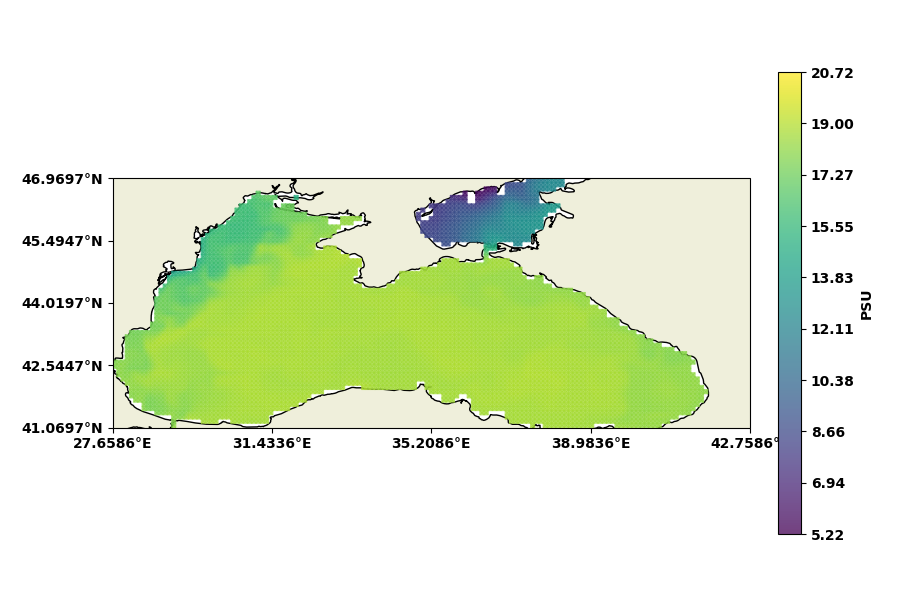
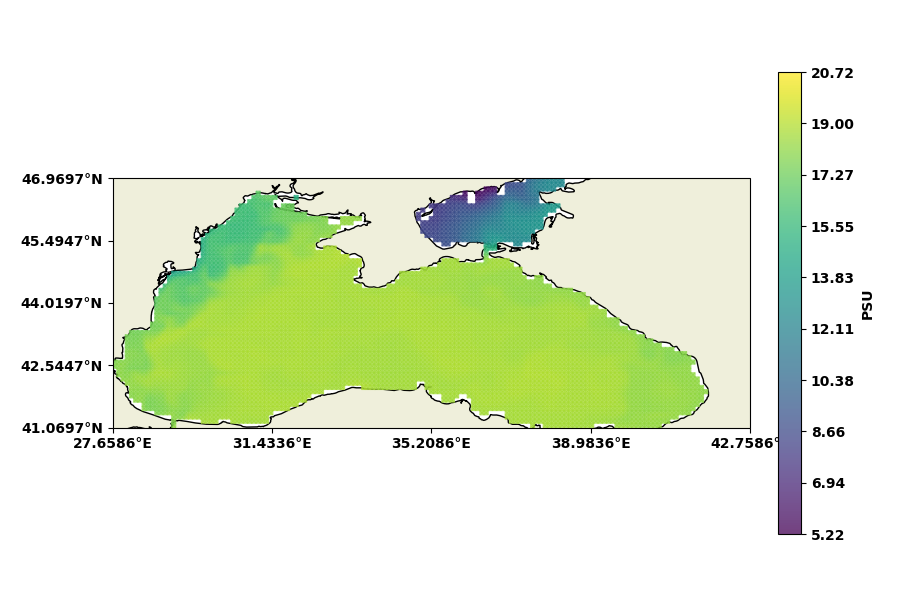
log scale bathymetric map. loop for salinity maps at depths

diff --git a/black_sea/main.py b/black_sea/main.py
@@ -25,37 +25,64 @@ headers = {'API-Key': key}
 variable = "so"
 dt = datetime(2024, 8, 21)
 
-# Firstly salinity map at shallow depth
-depth = 0 # m 
+def plot_salinity_at_depth(depth):
 
-# construct param list for the API calls 
-# read API docs for valid ones https://www.amentum.io/ocean_docs#tag/nemo/operation/app.api_nemo.endpoints.NEMO_Phys.point
+    # construct param list for the API calls 
+    # read API docs for valid ones https://www.amentum.io/ocean_docs#tag/nemo/operation/app.api_nemo.endpoints.NEMO_Phys.point
+    param_list = [
+        dict(
+            latitude = lat,
+            longitude = lon, 
+            depth = depth,
+            variable = variable, 
+            year = dt.year,
+            month = dt.month,
+            day = dt.day
+        )
+        for (lat, lon) in zip(lats_f, lons_f)
+    ]
+
+    # Send it! Bombard API with requests in an asyncronous fashion 
+    # (order maintained by the package, automagically cached)
+    responses_json = async_api_caller.run(
+        url, headers, param_list
+    )
+
+    salinities = [r['value'] for r in responses_json]
+
+    salinities = np.reshape(np.array(salinities), lats_g.shape).astype(float)
+
+    # over land points will be None 
+    masked_salinities = ma.masked_invalid(salinities)
+
+    map_plotter.plot(lons_g, lats_g, masked_salinities,  
+                    units="PSU", img_name=f"salinity_{depth}.png", 
+                    save=True)
+
+# maps at these depths in metres
+[plot_salinity_at_depth(d) for d in [0, 200, 400]]
+
+# generating a relief map of bathymetry using hte gebco API endpoint
+
 param_list = [
     dict(
         latitude = lat,
         longitude = lon, 
-        depth = depth,
-        variable = variable, 
-        year = dt.year,
-        month = dt.month,
-        day = dt.day
     )
     for (lat, lon) in zip(lats_f, lons_f)
 ]
 
-# Send it! Bombard API with requests in an asyncronous fashion 
-# (order maintained by the package, automagically cached)
+url = "https://ocean.amentum.io/gebco"
+
 responses_json = async_api_caller.run(
     url, headers, param_list
 )
 
-salinities = [r['value'] for r in responses_json]
+# depth is negative elevation
+depths = [-float(r['elevation']['value']) for r in responses_json]
 
-salinities = np.reshape(np.array(salinities), lats_g.shape).astype(float)
+depths = np.reshape(np.array(depths), lats_g.shape).astype(float)
 
-# over land points will be None 
-masked_salinities = ma.masked_invalid(salinities)
-
-map_plotter.plot(lons_g, lats_g, masked_salinities,  
-                 units="PSU", img_name=f"salinity_{depth}.png", 
-                 save=True)
+map_plotter.plot(lons_g, lats_g, depths,  
+                 units="metres", img_name="bathymetry.png", 
+                 save=True, use_log_scale=True)
